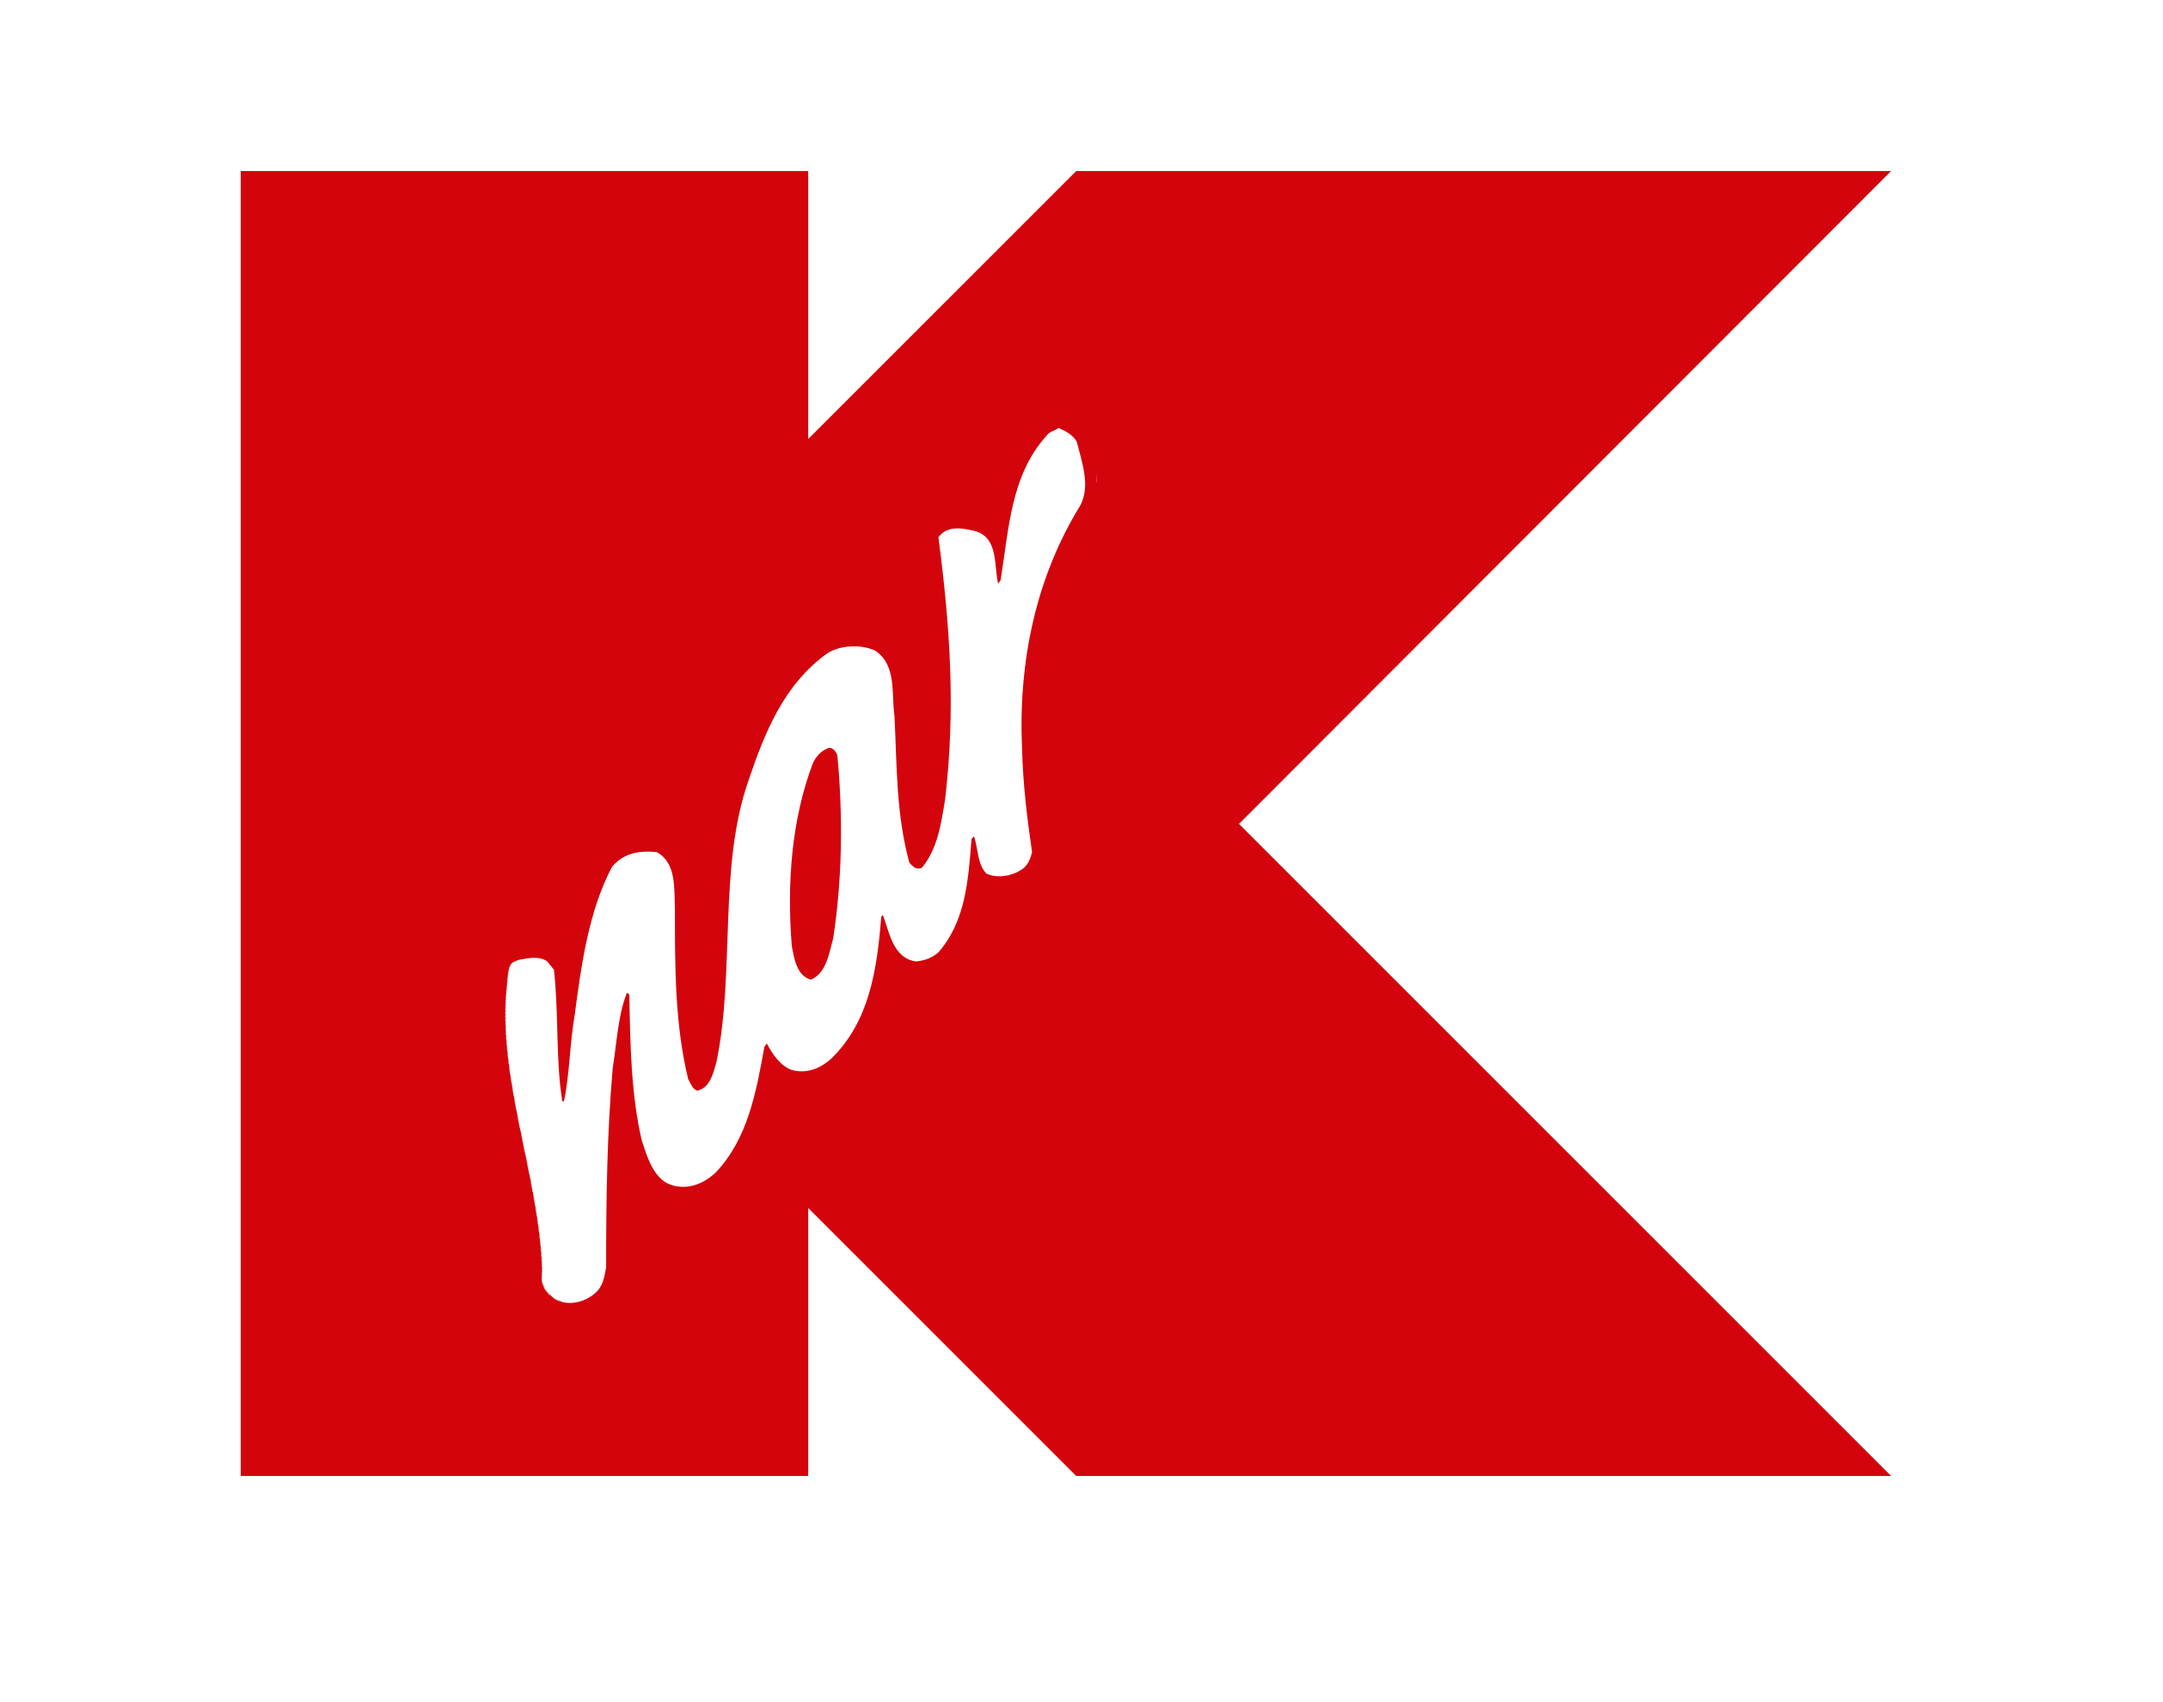
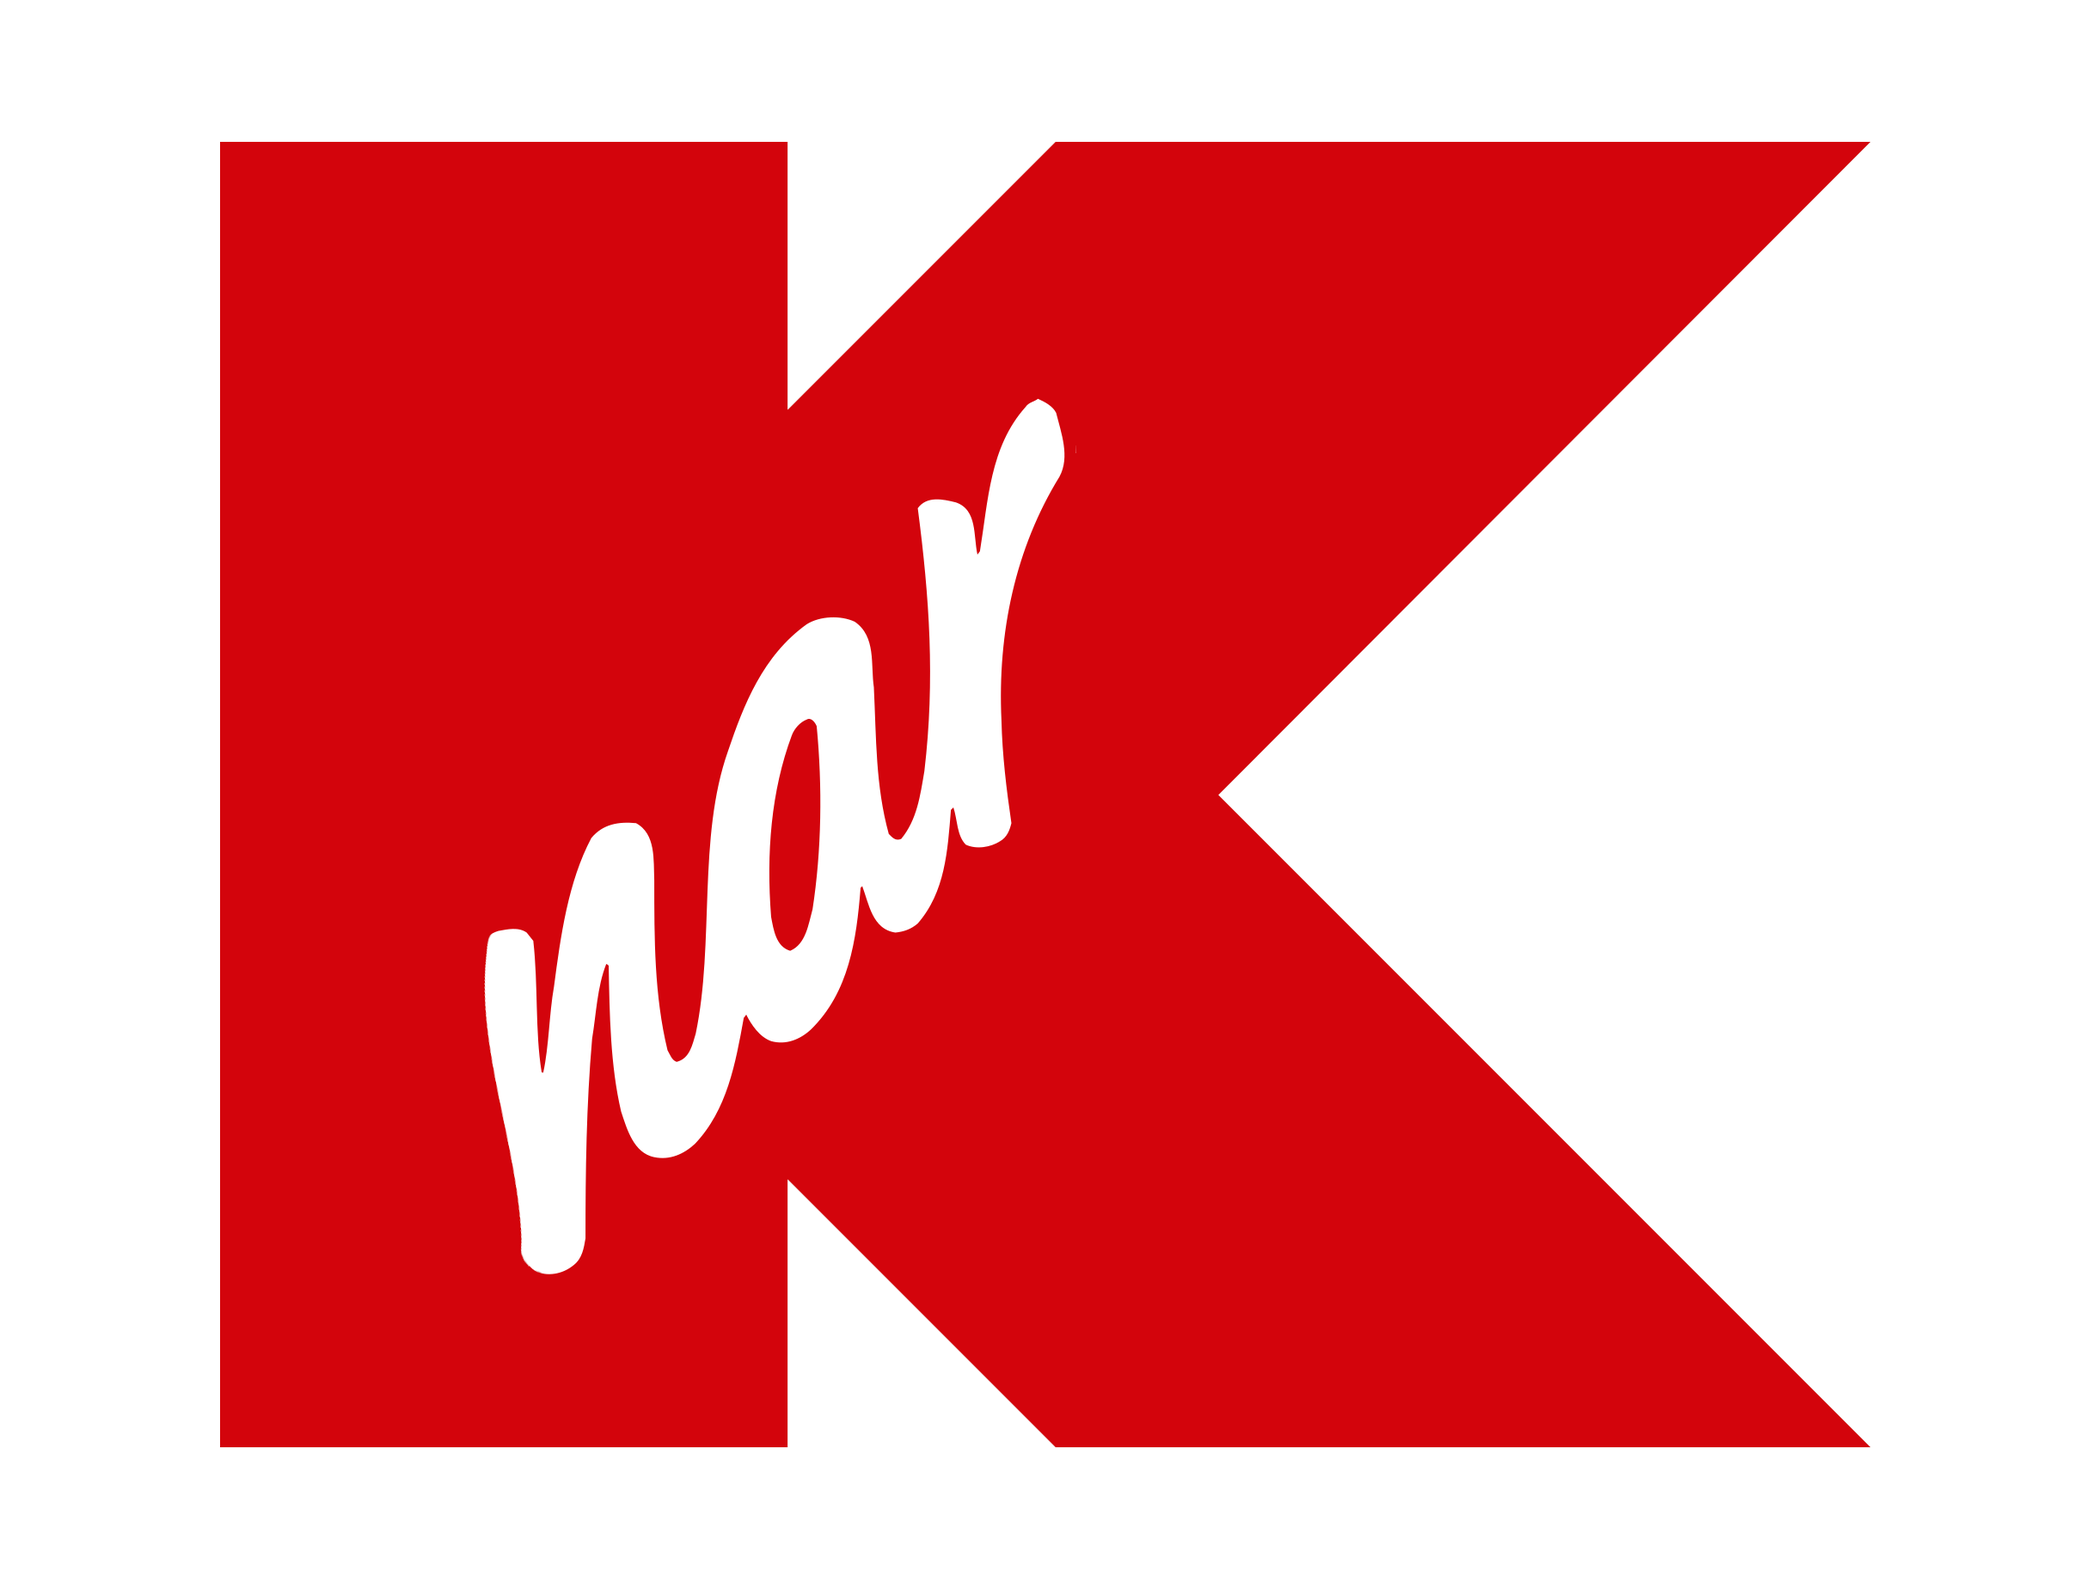
Width

diff --git a/index.html b/index.html
@@ -1,4 +1,4 @@
 <html>
-<head><title>Knar</title> <style>*{margin:0;padding:0;}.Knar{display:block;height:100%;margin-left:auto;margin-right:auto;}</style></head>
+<head><title>Knar</title> <style>*{margin:0;padding:0;}.Knar{display:block;width:50%;margin-left:auto;margin-right:auto;}</style></head>
 <body><img src="Knar.png" class="Knar" /></body>
 </html>
